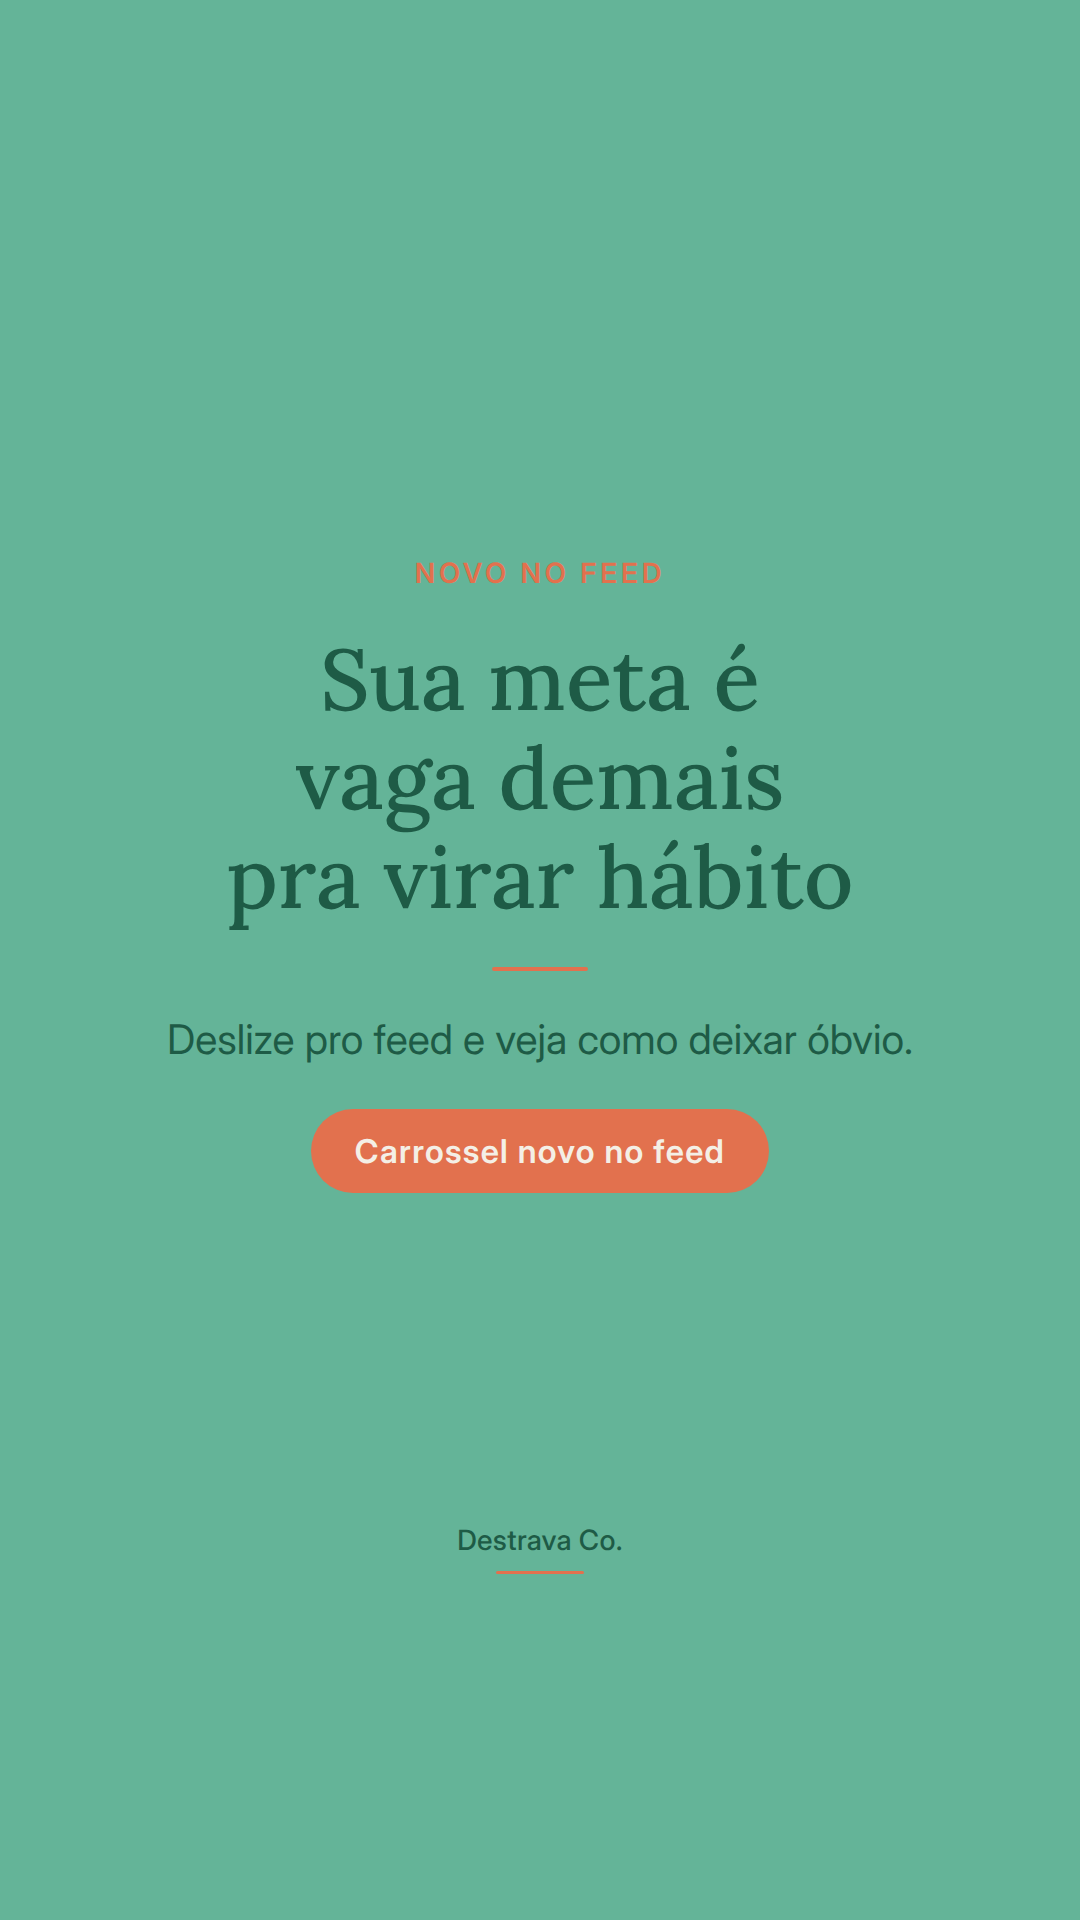
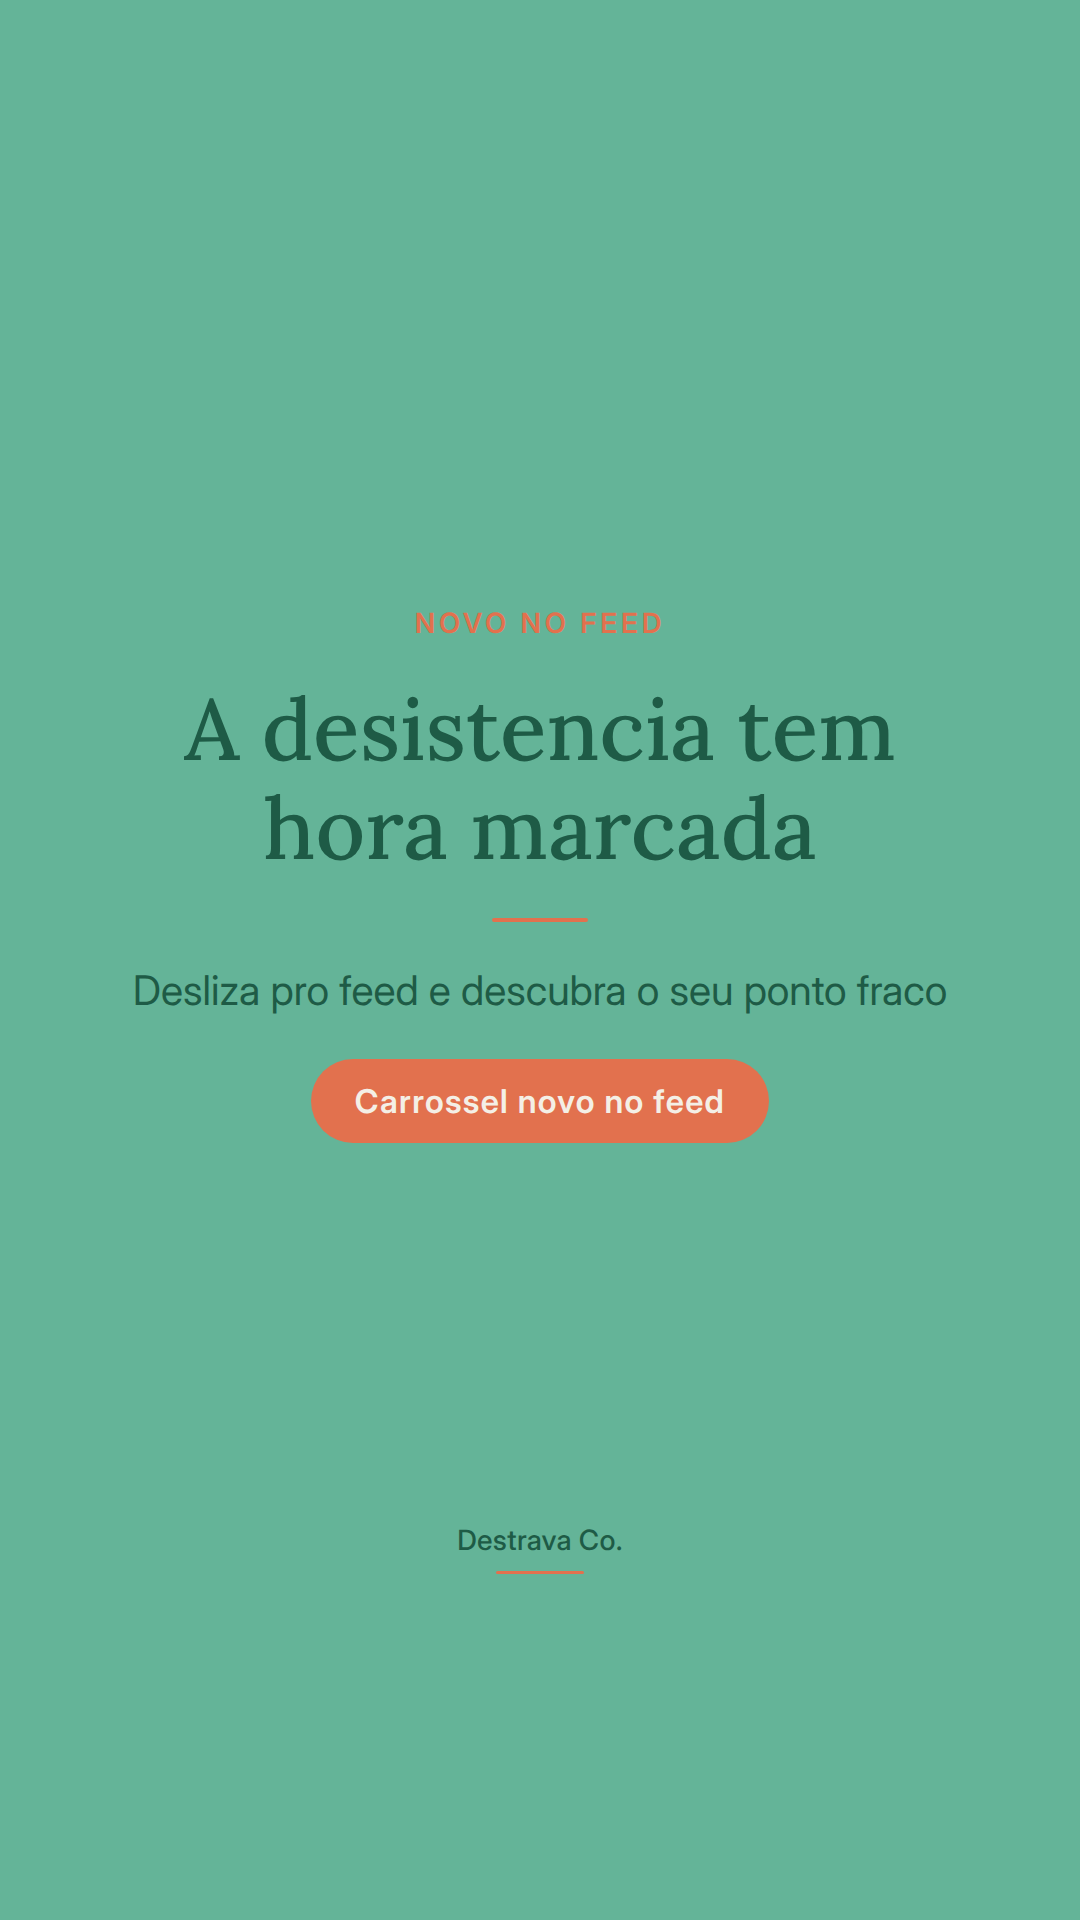
content: peças Instagram 2026_10_23

Changed region(s): [[0.1222, 0.2812, 0.8861, 0.625], [0.1833, 0.3438, 0.2139, 0.4062]]

diff --git a/public/content/2026_10_23/index.html b/public/content/2026_10_23/index.html
@@ -19,24 +19,24 @@
 </head>
 <body>
 <h1>Corpo · capa A (wash4)</h1>
-<div class="meta">2026-10-23 · gerado em 2026-10-24T01:37:42 · sticker sugerido nos Stories: enquete</div>
+<div class="meta">2026-10-23 · gerado em 2026-10-24T02:59:53 · sticker sugerido nos Stories: enquete</div>
 <h2>Carrossel</h2>
-<div class="strip"><img src="2026_10_23_-_Carrossel_Corpo_01.png" alt="Lâmina de capa com fundo wash4 da linha Corpo e título em campo dizendo que me cuidar mais é intenção, não hábito." title="2026_10_23_-_Carrossel_Corpo_01.png"><img src="2026_10_23_-_Carrossel_Corpo_02.png" alt="Lâmina de miolo com fundo wash1 bem claro e título no campo profundo explicando por que a intenção vaga não vira hábito." title="2026_10_23_-_Carrossel_Corpo_02.png"><img src="2026_10_23_-_Carrossel_Corpo_03.png" alt="Lâmina de miolo com fundo wash1 bem claro listando verbo, quando e onde como partes do hábito concreto." title="2026_10_23_-_Carrossel_Corpo_03.png"><img src="2026_10_23_-_Carrossel_Corpo_04.png" alt="Lâmina de miolo com fundo wash1 bem claro mostrando a troca de uma meta vaga por uma ação óbvia." title="2026_10_23_-_Carrossel_Corpo_04.png"><img src="2026_10_23_-_Carrossel_Corpo_05.png" alt="Lâmina de CTA com fundo campo profundo, texto creme e botão no tom de acento convidando a conhecer o Destrava 21." title="2026_10_23_-_Carrossel_Corpo_05.png"></div>
+<div class="strip"><img src="2026_10_23_-_Carrossel_Corpo_01.png" alt="Lamina de capa com fundo wash4 da linha Corpo e titulo em campo dizendo que a desistencia costuma ter hora marcada." title="2026_10_23_-_Carrossel_Corpo_01.png"><img src="2026_10_23_-_Carrossel_Corpo_02.png" alt="Lamina de miolo com fundo wash1 bem claro e titulo em campo profundo explicando que o habito cai sempre no mesmo ponto da rotina." title="2026_10_23_-_Carrossel_Corpo_02.png"><img src="2026_10_23_-_Carrossel_Corpo_03.png" alt="Lamina de miolo com fundo wash1 bem claro e lista de tres passos para identificar o momento em que o habito costuma cair." title="2026_10_23_-_Carrossel_Corpo_03.png"><img src="2026_10_23_-_Carrossel_Corpo_04.png" alt="Lamina de miolo com fundo wash1 bem claro e titulo em campo profundo sugerindo preparar apenas o minuto critico do dia." title="2026_10_23_-_Carrossel_Corpo_04.png"><img src="2026_10_23_-_Carrossel_Corpo_05.png" alt="Lamina final com fundo campo profundo, texto creme e botao no tom de acento convidando a conhecer o Destrava 21." title="2026_10_23_-_Carrossel_Corpo_05.png"></div>
 <h2>Stories</h2>
-<div class="strip"><img class="story" src="2026_10_23_-_Stories_Corpo_01.png" alt="Story com fundo wash4 da linha Corpo e título em campo dizendo que a meta é vaga demais pra virar hábito." title="2026_10_23_-_Stories_Corpo_01.png"><img class="story" src="2026_10_23_-_Stories_Corpo_02.png" alt="Stories em fundo verde profundo apresentando o programa Destrava 21 Mulheres com o endereço da página em destaque no chip coral." title="2026_10_23_-_Stories_Corpo_02.png"></div>
+<div class="strip"><img class="story" src="2026_10_23_-_Stories_Corpo_01.png" alt="Lamina de stories com fundo wash4 da linha Corpo e titulo em campo convidando a deslizar para o carrossel no feed." title="2026_10_23_-_Stories_Corpo_01.png"><img class="story" src="2026_10_23_-_Stories_Corpo_02.png" alt="Stories em fundo verde profundo apresentando o programa Destrava 21 Mulheres com o endereço da página em destaque no chip coral." title="2026_10_23_-_Stories_Corpo_02.png"></div>
 <div class="meta">1º · stories post do dia · <a href="2026_10_23_-_Stories_Corpo_01.png" download="2026_10_23_-_Stories_Corpo_01.png">⬇ baixar</a> · sticker de link → post do dia (permalink em publicado.json depois de publicar) · sticker extra sugerido: enquete</div><div class="meta">2º · stories oferta · <a href="2026_10_23_-_Stories_Corpo_02.png" download="2026_10_23_-_Stories_Corpo_02.png">⬇ baixar</a> · sticker de link → <a href="https://destravaco.com.br/d21-mulheres-inicial/">https://destravaco.com.br/d21-mulheres-inicial/</a></div>
 <div class="meta">Stories não vão pela API: baixe e poste no app colando o sticker de link.</div>
 <h2>Legenda</h2>
-<pre>Hábito não nasce de intenção: nasce de verbo, horário e lugar.
+<pre>A desistencia costuma ter hora marcada, e quase sempre e a mesma hora todo dia.
+Constancia nao some de uma vez: ela cai num ponto especifico da rotina corrida, aquele em que o cansaco encontra a casa baguncada.
 
-Me cuidar mais, me mexer mais, me organizar melhor. Tudo isso soa bonito e não acontece, porque deixa a decisão pra um dia que já chega cheio.
+Em vez de culpar a falta de forca de vontade, vale observar: nos ultimos dias em que voce nao fez, o que estava acontecendo cinco minutos antes? Esse detalhe que se repete e o seu ponto.
 
-Quando você define o verbo (o que), o quando (depois de qual momento que já é automático) e o onde (em que canto da casa), a sua cabeça para de negociar. A ação fica óbvia demais pra adiar.
+Quando voce enxerga o ponto, para de tentar consertar o dia inteiro. Da pra ajustar so ali: deixar o tenis perto da porta, mudar o horario, encurtar o habito pra tres minutos naquele momento.
 
-E o melhor: hábito concreto é fácil de retomar. Você não precisa de motivação nova, só voltar pro mesmo verbo, no mesmo horário, no mesmo lugar.
+Salva pra lembrar no proximo dia dificil e manda pra uma amiga que anda se cobrando demais.
+Se quiser um caminho simples pra retomar sem culpa, o Destrava 21 te espera na bio.
 
-Salva pra reescrever suas metas hoje e manda pra uma amiga que vive recomeçando. Se quiser um caminho guiado, o Destrava 21 te espera.
-
-<span class="tags">#constancia #habitossaudaveis #rotinacorrida #autocuidado #mulheresreais</span></pre>
+<span class="tags">#constancia #rotinacorrida #habitossaudaveis #autocuidado #mulheresreais</span></pre>
 </body>
 </html>
